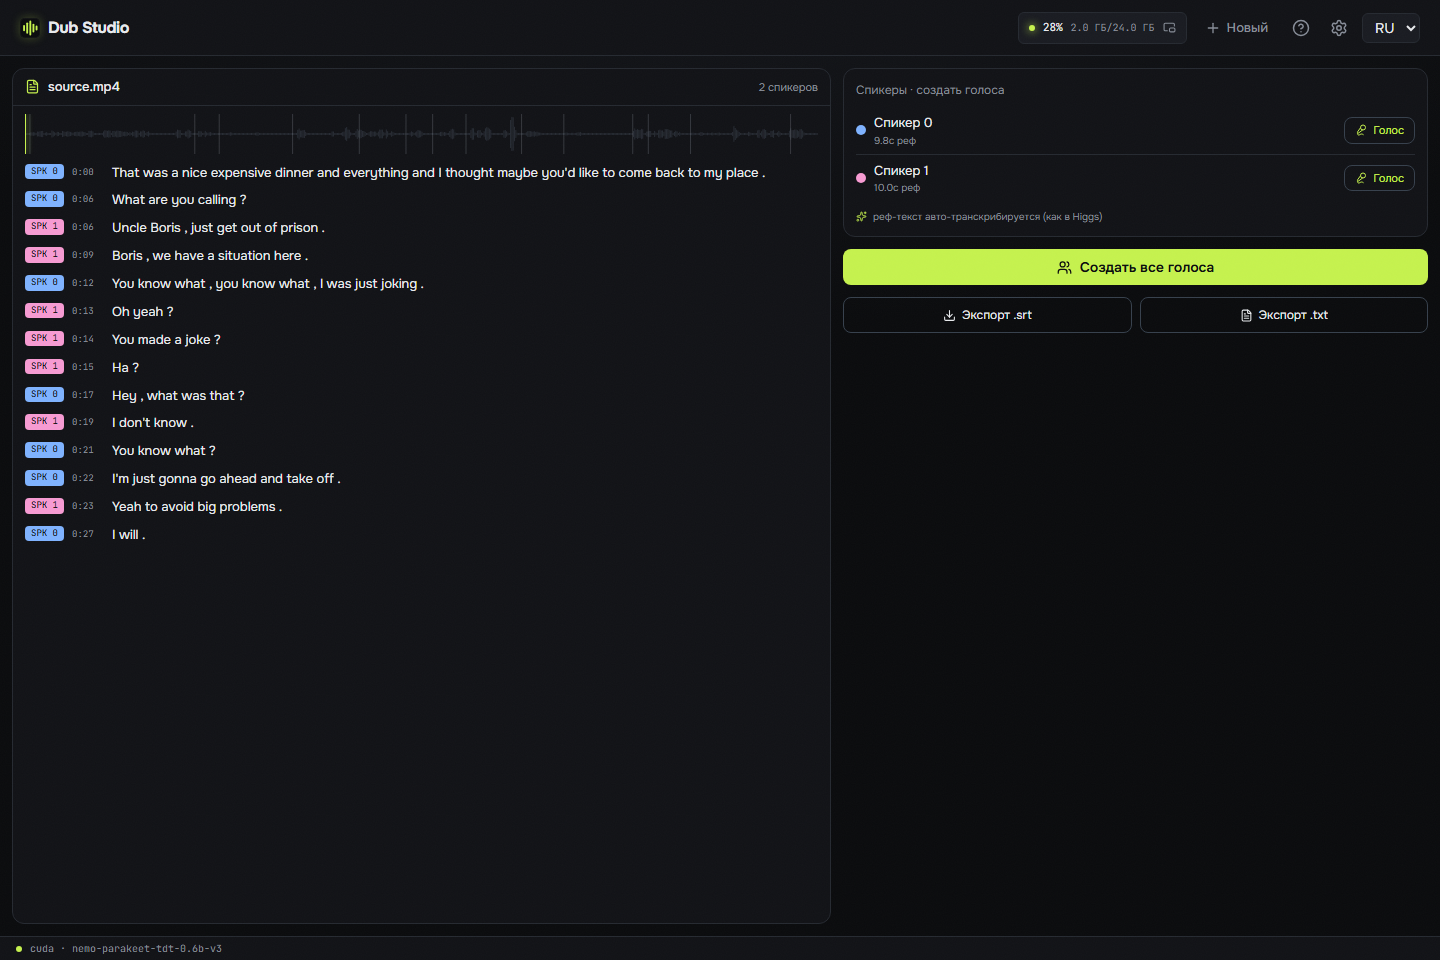
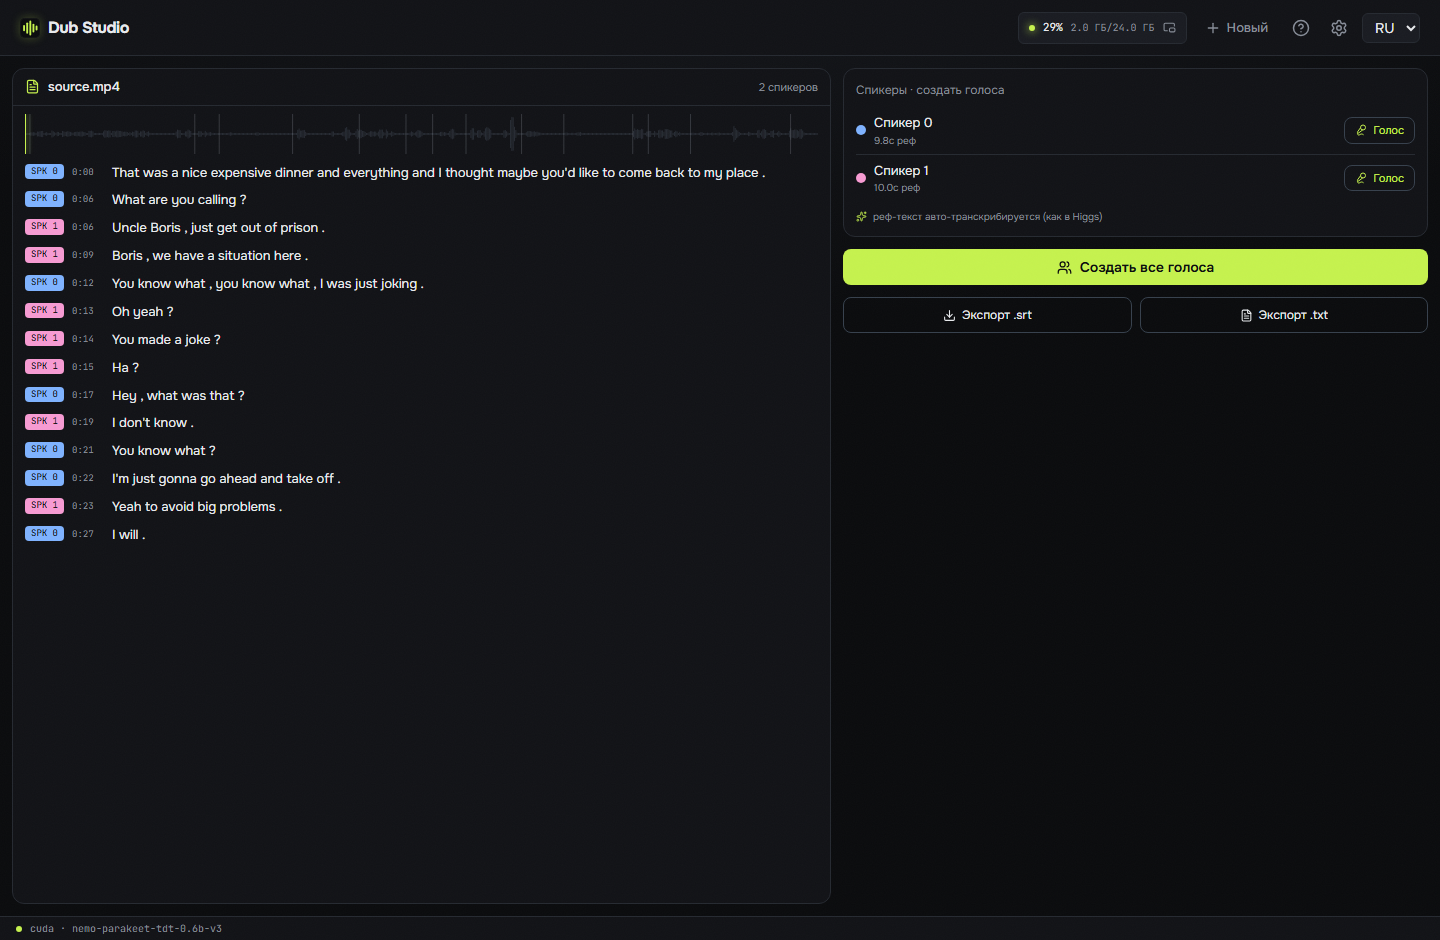
README: галерея скриншотов (главный экран + редактор + режим транскрипта)
Свежие кадры разных возможностей: docs/screenshot.png (редактор дубляжа),
docs/screenshot-home.png (главная — 4 режима, форматы), docs/screenshot-transcribe.png
(режим транскрипта). README ru/en — секция «Скриншоты».

diff --git a/README.md b/README.md
@@ -43,9 +43,15 @@
 - **Любые видео-форматы** — MP4, MOV, MKV, WEBM, AVI и другие (декод через ffmpeg)
 - **Полностью портативная** — ничего не пишется в профиль пользователя, удалил папку — не осталось следа
 
-### Режим «Транскрипт»
+## Скриншоты
 
-Диаризованный транскрипт с раскладкой по спикерам и созданием чистых голосов из каждого спикера в один клик.
+Главный экран — 4 режима (дубляж / субтитры / шуточный / транскрипт), выбор языков, приём любых видео-форматов:
+
+![Главный экран Dub Studio](docs/screenshot-home.png)
+
+Живой редактор дубляжа — субтитры с подложкой, локализованный тайтл, голоса по спикерам, гейн, вейформа (скриншот выше).
+
+Режим «Транскрипт» — диаризованный транскрипт с раскладкой по спикерам и созданием чистых голосов из каждого спикера в один клик:
 
 ![Режим транскрипции Dub Studio](docs/screenshot-transcribe.png)
 

diff --git a/docs/README-en.md b/docs/README-en.md
@@ -43,9 +43,13 @@ This is **v2 — a fully native rewrite**. The previous version dragged along an
 - **Any video format** — MP4, MOV, MKV, WEBM, AVI and more (decoded via ffmpeg)
 - **Fully portable** — nothing written to the user profile; delete the folder, no trace left
 
-### Transcript mode
+## Screenshots
 
-A diarized transcript laid out by speaker, with clean voices created from each speaker in one click.
+Home — four modes (dub / subtitles / funny / transcript), language pickers, any video format accepted:
+
+![Dub Studio home](screenshot-home.png)
+
+Transcript mode — a diarized transcript laid out by speaker, with clean voices created from each speaker in one click:
 
 ![Dub Studio transcript mode](screenshot-transcribe.png)
 
